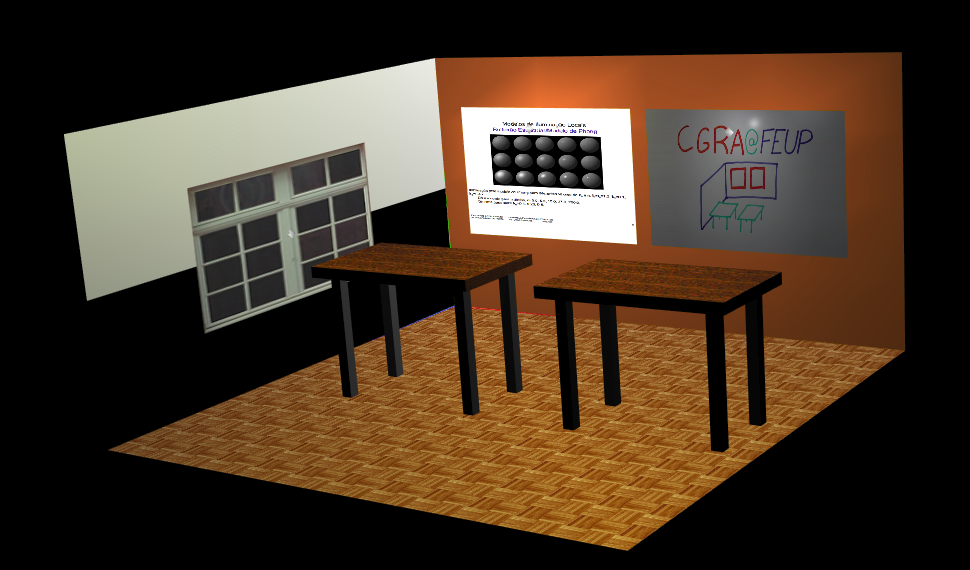
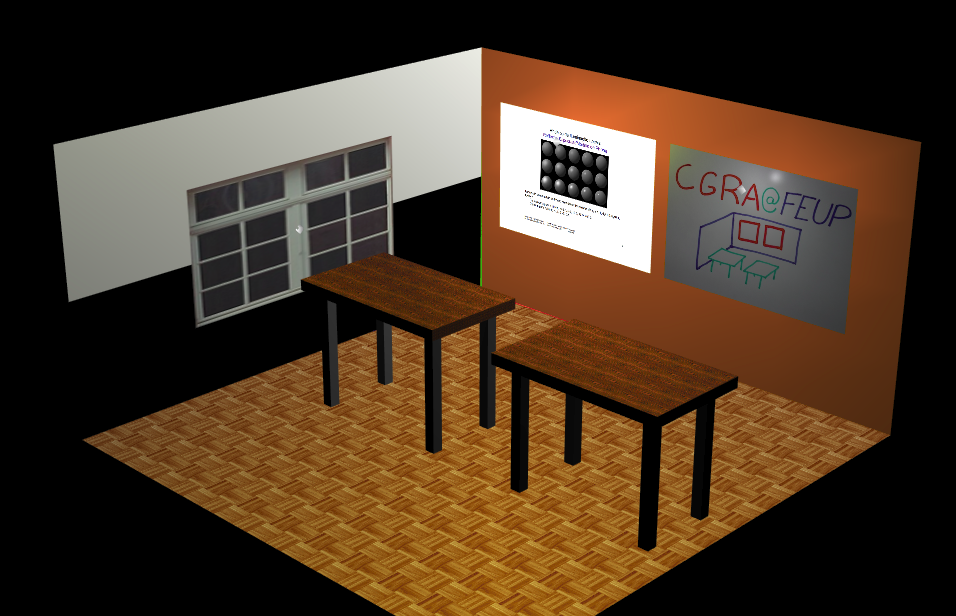
TP4 corrected

diff --git a/tp4/Plane.js b/tp4/Plane.js
@@ -2,7 +2,7 @@
 /** Represents a plane with nrDivs divisions along both axis, with center at (0,0) */
 class Plane extends CGFobject{
 
-	constructor(scene, nrDivs,xPix, yPix) 
+	constructor(scene, nrDivs, minS, maxS, minT, maxT) 
 	{
 		super(scene);
 
@@ -12,8 +12,10 @@ class Plane extends CGFobject{
 		this.nrDivs = nrDivs;
 		this.patchLength = 1.0 / nrDivs;
 
-		this.xPix = xPix;
-		this.yPix = yPix;
+		this.minS = minS || 0;
+		this.maxS = maxS || 1;
+		this.minT = minT || 0;
+		this.maxT = maxT || 1;
 
 		this.initBuffers();
 	};
@@ -43,36 +45,32 @@ class Plane extends CGFobject{
 		// Generate texture coordinates
 		this.texCoords = [];
 
-		var ratio = this.xPix/this.yPix;
+		var inc_S = (this.maxS - this.minS)/this.nrDivs;
+		var inc_T = (this.maxT - this.minT)/this.nrDivs;
 
-		var edge = (ratio - 1)/2;
-
+		
 		var yCoord = 0.5;
-		var yTex = 0;
 
-		for (var j = 0; j <= this.nrDivs; j++) 
-		{
+		for (var j = 0; j <= this.nrDivs; j++) {
 			var xCoord = -0.5;
-			var xTex = -edge;
 			for (var i = 0; i <= this.nrDivs; i++) 
 			{
 				this.vertices.push(xCoord, yCoord, 0);
-				
-				
+			
 				// As this plane is being drawn on the xy plane, the normal to the plane will be along the positive z axis.
 				// So all the vertices will have the same normal, (0, 0, 1).
 				
 				this.normals.push(0,0,1);
-
+	
 				// texCoords should be computed here; uncomment and fill the blanks
-				this.texCoords.push(xTex,yTex);
+				this.texCoords.push(this.minS+i*inc_S,this.minT+j*inc_T);
 
-				xTex += this.patchLength * ratio;
 				xCoord += this.patchLength;
 			}
-			yTex += this.patchLength;
 			yCoord -= this.patchLength;
-		}
+		}			
+
+
 		
 		// Generating indices
 		/* for nrDivs = 3 output will be 

diff --git a/tp4/LightingScene.js b/tp4/LightingScene.js
@@ -41,8 +41,8 @@ class LightingScene extends CGFscene
 		this.floor = new MyQuad(this,0,12,0,12);
 		this.prism = new MyPrism(this,N_SLICES,N_STACKS);
 		
-		this.boardA = new Plane(this, BOARD_A_DIVISIONS, 512, 512);
-		this.boardB = new Plane(this, BOARD_B_DIVISIONS, 512, 372);
+		this.boardA = new Plane(this, BOARD_A_DIVISIONS, -0.25, 1.25);
+		this.boardB = new Plane(this, BOARD_B_DIVISIONS);
 
 		// Materials
 		this.materialDefault = new CGFappearance(this);
